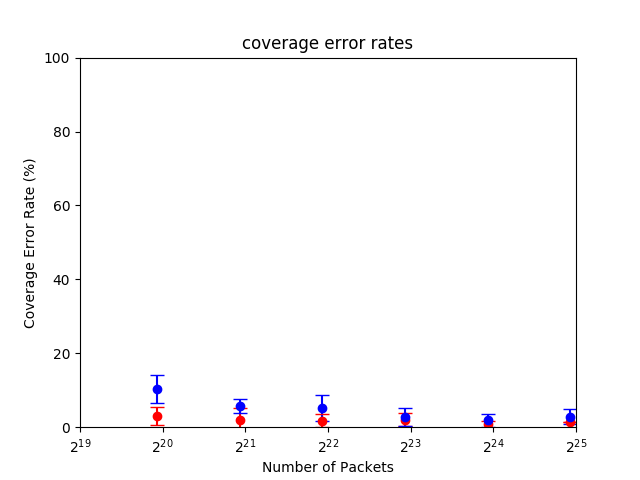
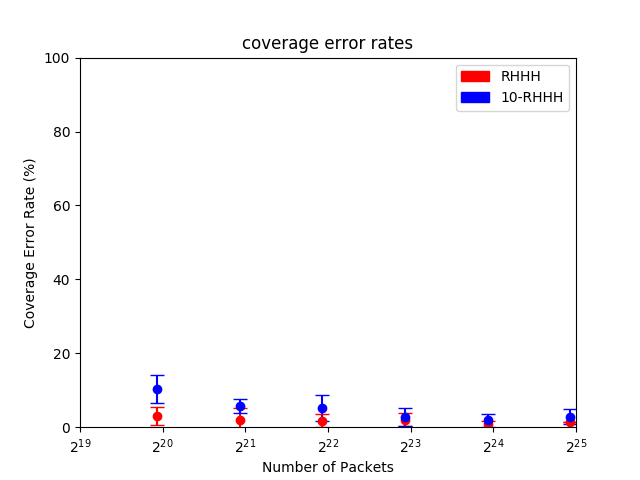
new graphs

Changed region(s): [[0.7188, 0.125, 0.9062, 0.2188]]

diff --git a/sanjose2014/plot_graph.py b/sanjose2014/plot_graph.py
@@ -2,6 +2,7 @@ import matplotlib as mpl
 mpl.use('agg')
 
 import numpy as np
+import matplotlib.patches as mpatches
 import matplotlib.pyplot as plt
 import pdb
 from parse_results import parse_file
@@ -63,6 +64,9 @@ def graph(rhh_confidence_intervals, _10_rhh_confidence_intervals, graph_name, x_
 	ax.set_xticks([2**x for x in range(19, 26)])
 	ax.set_xticklabels(["2^%s"%x for x in range(19, 26)])
 	ax.set_xscale("log", basex=2)
+        red_patch = mpatches.Patch(color='red', label='RHHH')
+        blue_patch = mpatches.Patch(color='blue', label='10-RHHH')
+        plt.legend(handles=[red_patch, blue_patch])
 	plt.title(graph_name)
 	fig.savefig("_".join(graph_name.split()) + '_fig.png')
 
